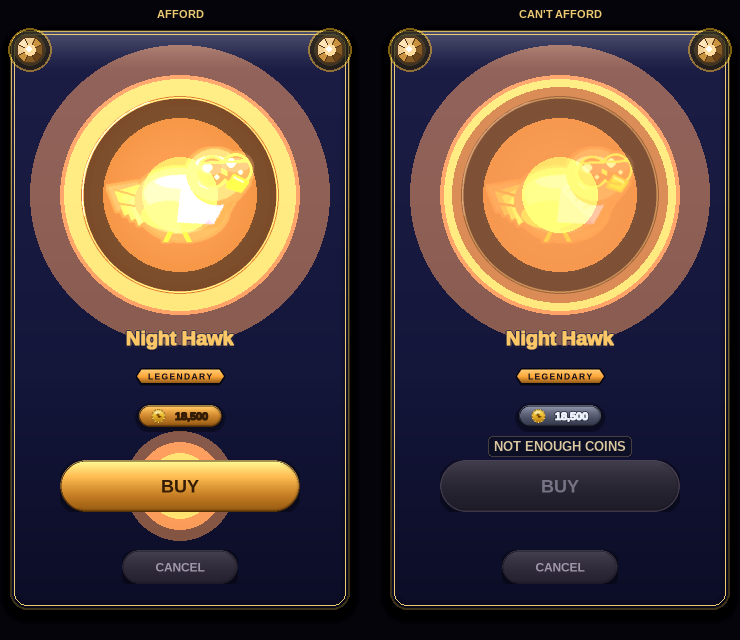
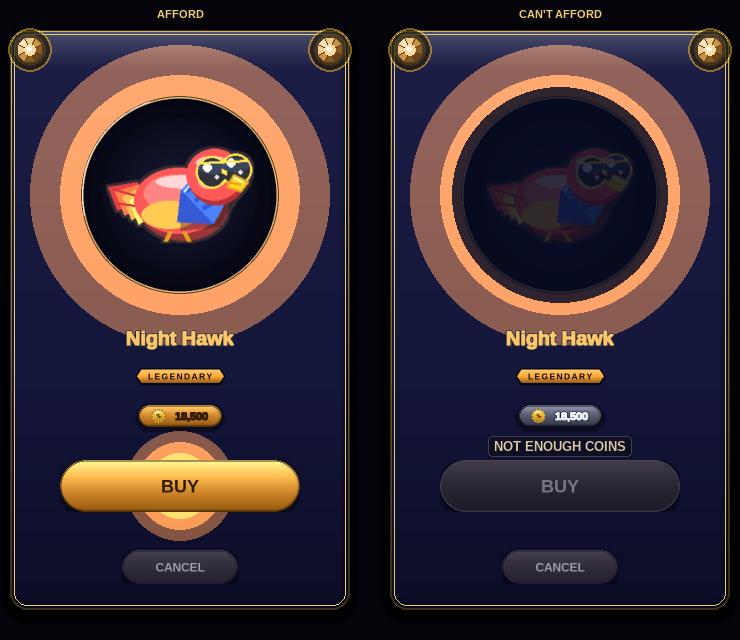
design: confirm-purchase v2 expanded-card r3
Claude-Session: https://claude.ai/code/session_011726ot8uBSmurQVaEkGY6K

Changed region(s): [[0.5905, 0.125, 0.9324, 0.5], [0.0622, 0.125, 0.4041, 0.5]]

diff --git a/scratchpad/render_expanded_r3.py b/scratchpad/render_expanded_r3.py
@@ -44,6 +44,18 @@ pal = {"gem": (255, 202, 104), "glow": (255, 168, 58), "deep": (150, 92, 22)}
 GLOW_WARM = (118, 70, 22)
 
 
+def ring_glow(surf, cx, cy, inner_r, outer_r, color, peak_alpha, layers):
+    """A warm halo that hugs OUTSIDE a disc bezel. soft_glow draws filled circles
+    whose inner layers would otherwise sit on the disc face and — because
+    BLEND_ADD ignores alpha — clip the interior to white. Accumulating the glow on
+    a scratch surface, punching out the disc, then compositing normally keeps the
+    warmth as a rim ring only, never a blown-out face."""
+    tmp = pygame.Surface(surf.get_size(), pygame.SRCALPHA)
+    soft_glow(tmp, cx, cy, outer_r, color, peak_alpha, layers)
+    pygame.draw.circle(tmp, (0, 0, 0, 0), (cx, cy), inner_r)
+    surf.blit(tmp, (0, 0))
+
+
 def ss_widget(w_log, h_log, drawfn):
     """Author an SS-scale widget then downscale by 1/SS so its m()-based
     geometry lands at true logical size — the card pipeline's crisp-edge trick."""
@@ -116,15 +128,19 @@ def draw_panel(canvas, ox, affordable):
     disc_r = R_DISC
 
     # can't-afford: strong blue-indigo darken so the hero reads locked, not just
-    # the button — an obvious non-colour affordability cue.
+    # the button — an obvious non-colour affordability cue. Alpha pushed past the
+    # first-pass 160 so the dimmed hero drops >50 luminance below the lit hero
+    # (the delta at which the lock is unmistakable rather than a faint tint).
     if not affordable:
         dim = pygame.Surface((R_DISC * 2, R_DISC * 2), pygame.SRCALPHA)
-        pygame.draw.circle(dim, (10, 14, 40, 160), (R_DISC, R_DISC), R_DISC)
+        pygame.draw.circle(dim, (8, 12, 34, 215), (R_DISC, R_DISC), R_DISC)
         canvas.blit(dim, dim.get_rect(center=(cx, cy)))
 
     # faint warm ring hugging the bezel — marries the item art to the legendary
-    # palette without stacking to white.
-    soft_glow(canvas, cx, cy, disc_r + 8, GLOW_WARM, peak_alpha=12, layers=3)
+    # palette. Masked to the region OUTSIDE the disc so the additive glow can't
+    # brighten (and blow out) the interior.
+    ring_glow(canvas, cx, cy, disc_r, disc_r + 12, GLOW_WARM,
+              peak_alpha=12, layers=3)
 
     # ── corner gem badges (both top corners) — unmistakable card DNA ───────────
     for gx in (panel.x + 20, panel.right - 20):
